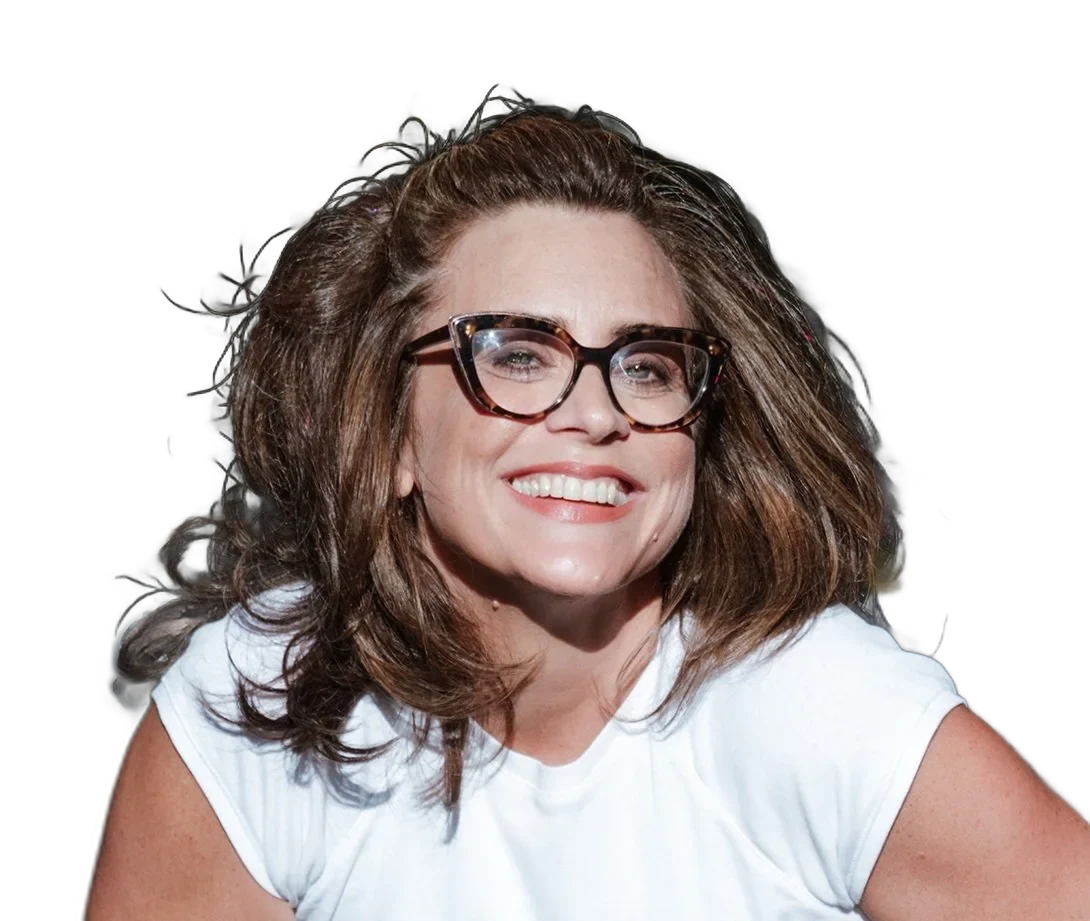
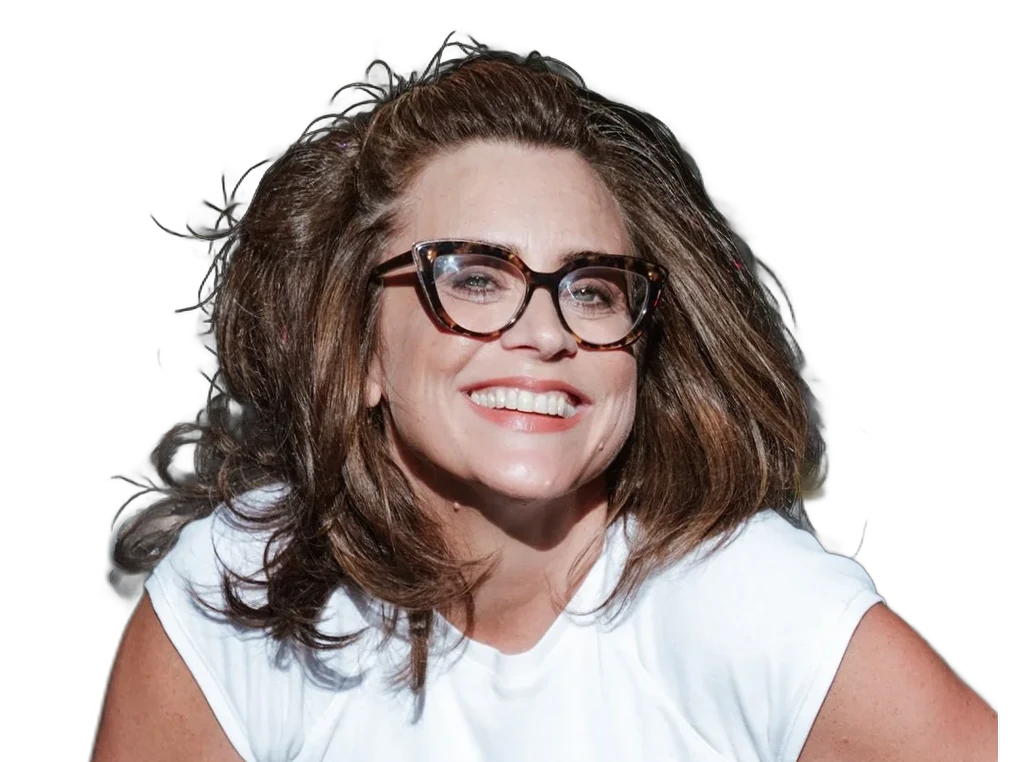
Homepage portrait: the illustration stays at rest and opens up under the pointer to reveal the photo, lined up behind it (no dot print)
Claude-Session: https://claude.ai/code/session_01E1SYBESVZjkS7hAnN2ZAYb

Changed region(s): [[0.0625, 0.0302, 1.0, 1.0], [0.4688, 0.9659, 0.5, 1.0], [0.6562, 0.8753, 0.6875, 0.9055]]

diff --git a/theme/halftone-reveal.js b/theme/halftone-reveal.js
@@ -1,6 +1,6 @@
 /* HalftoneReveal (React Bits), ported to plain JavaScript.
-   Homepage portrait: the cut-out photo is printed as navy halftone dots on the page colour;
-   wherever the pointer goes, the dots swell into the real photo. Used on every element with class "halftone-reveal" and a data-src. */
+   Homepage portrait: the illustration shows at rest; wherever the pointer goes, it opens up
+   (with a halftone-dot edge) to reveal the photo lined up behind it. Used on every element with class "halftone-reveal" and a data-src. */
 (function () {
   if (!window.WebGL2RenderingContext) return;
 const VERTEX = `#version 300 es
@@ -40,6 +40,7 @@ void main() {
 
 const VIEW = `#version 300 es
 precision highp float;
+uniform sampler2D uArt;
 uniform sampler2D uImage;
 uniform sampler2D uMask;
 uniform vec2 uResolution;
@@ -280,9 +281,11 @@ void main() {
   float w = max(fwidth(d), 0.0001) * 0.75;
   float k = smoothstep(r + w, r - w, d) * clamp(r / (w * 2.0), 0.0, 1.0);
   vec4 sharp = photo(p, 0.0, 0.0);
-  // the paper is left see-through (the page shows through): only the ink and the photo are drawn
-  float inkCover = clamp(length(print - uPaper) / max(length(uInk - uPaper), 0.001), 0.0, 1.0);
-  vec4 printed = vec4(print - (1.0 - inkCover) * uPaper, inkCover);
+  // at rest: the illustration (drawn as on the page: its white paper takes on the page colour); the photo shows through the reveal
+  vec2 artUv = (p - uFrame.xy) / uFrame.zw;
+  vec2 onArt = step(0.0, artUv) * step(artUv, vec2(1.0));
+  vec4 art = texture(uArt, clamp(artUv, 0.0, 1.0)) * (onArt.x * onArt.y);
+  vec4 printed = vec4(art.rgb * uPaper * art.a, art.a);
   vec4 real = vec4(sharp.rgb * sharp.a, sharp.a);
   outColor = mix(printed, real, k);
 }`;
@@ -390,7 +393,7 @@ const measureEdge = (context, image) => {
       reverse: false,
       wander: false,
       clickBurst: true,
-      intro: true
+      intro: false
     };
     const canvas = container.querySelector("canvas");
     const gl = canvas?.getContext('webgl2', {
@@ -418,6 +421,7 @@ const measureEdge = (context, image) => {
       'uFade'
     ]);
     const viewUniforms = locate(gl, viewProgram, [
+      'uArt',
       'uImage',
       'uMask',
       'uResolution',
@@ -613,6 +617,9 @@ const measureEdge = (context, image) => {
       gl.uniform1f(viewUniforms.uKey, state.key);
       gl.uniform1f(viewUniforms.uReverse, s.reverse ? 1 : 0);
       gl.uniform1f(viewUniforms.uIntro, 1 - (1 - intro) * (1 - intro));
+      gl.activeTexture(gl.TEXTURE2);
+      gl.bindTexture(gl.TEXTURE_2D, artTexture);
+      gl.uniform1i(viewUniforms.uArt, 2);
       gl.uniform4fv(viewUniforms.uBursts, burstData);
       gl.uniform1f(viewUniforms.uBurstWidth, Math.max(60, s.revealRadius * 0.9));
       gl.bindVertexArray(vao);
@@ -681,12 +688,34 @@ const measureEdge = (context, image) => {
       if (!raf && alive && visible && !document.hidden) raf = requestAnimationFrame(frame);
     };
 
+    // the illustration shown at rest; it is the same size as the photo, which is lined up with it
+    const artTexture = gl.createTexture();
+    gl.bindTexture(gl.TEXTURE_2D, artTexture);
+    gl.texImage2D(gl.TEXTURE_2D, 0, gl.RGBA, 1, 1, 0, gl.RGBA, gl.UNSIGNED_BYTE, new Uint8Array(4));
+    let artReady = false, photoReady = false;
+    const ready = () => { if (artReady && photoReady) { container.classList.add("ht-on"); wake(); } };
+    const art = new Image();
+    art.decoding = "async";
+    art.onload = () => {
+      if (!alive) return;
+      gl.bindTexture(gl.TEXTURE_2D, artTexture);
+      gl.pixelStorei(gl.UNPACK_PREMULTIPLY_ALPHA_WEBGL, false);
+      gl.texImage2D(gl.TEXTURE_2D, 0, gl.RGBA, gl.RGBA, gl.UNSIGNED_BYTE, art);
+      gl.generateMipmap(gl.TEXTURE_2D);
+      gl.texParameteri(gl.TEXTURE_2D, gl.TEXTURE_MIN_FILTER, gl.LINEAR_MIPMAP_LINEAR);
+      gl.texParameteri(gl.TEXTURE_2D, gl.TEXTURE_MAG_FILTER, gl.LINEAR);
+      gl.texParameteri(gl.TEXTURE_2D, gl.TEXTURE_WRAP_S, gl.CLAMP_TO_EDGE);
+      gl.texParameteri(gl.TEXTURE_2D, gl.TEXTURE_WRAP_T, gl.CLAMP_TO_EDGE);
+      artReady = true;
+      ready();
+    };
+    art.src = container.dataset.art;
+
     const image = new Image();
     image.crossOrigin = 'anonymous';
     image.decoding = 'async';
     image.onload = () => {
       if (!alive) return;
-      container.classList.add("ht-on");
       gl.bindTexture(gl.TEXTURE_2D, imageTexture);
       gl.pixelStorei(gl.UNPACK_PREMULTIPLY_ALPHA_WEBGL, false);
       gl.texImage2D(gl.TEXTURE_2D, 0, gl.RGBA, gl.RGBA, gl.UNSIGNED_BYTE, image);
@@ -704,7 +733,8 @@ const measureEdge = (context, image) => {
       }
       state.image = image;
       state.introStart = performance.now();
-      wake();
+      photoReady = true;
+      ready();
     };
     image.src = container.dataset.src;
 

diff --git a/theme/style.css b/theme/style.css
@@ -113,13 +113,13 @@ a:hover { color: var(--accent); text-decoration-color: currentColor; }
 .portrait { display: block; width: 320px; max-width: 100%; height: auto;
   mix-blend-mode: multiply; /* the illustration's white paper blends into the page color */ }
 
-/* halftone portrait (theme/halftone-reveal.js): 20% bigger than the illustration (384px instead of 320px), shaped like the photo */
-.portrait.halftone-reveal { position: relative; width: min(384px, calc(100vw - 64px)); max-width: none; aspect-ratio: 1090 / 921; height: auto; overflow: hidden; mix-blend-mode: normal; }
+/* portrait with photo reveal (theme/halftone-reveal.js): 20% bigger than before (384px instead of 320px) */
+.portrait.halftone-reveal { position: relative; width: min(384px, calc(100vw - 64px)); max-width: none; aspect-ratio: 1024 / 762; height: auto; overflow: hidden; mix-blend-mode: normal; }
 .halftone-reveal-canvas { position: absolute; inset: 0; display: block; width: 100%; height: 100%; opacity: 0; transition: opacity .3s; }
-.halftone-fallback { position: absolute; inset: 0; width: 100%; height: 100%; object-fit: contain; }
+.halftone-fallback { position: absolute; inset: 0; width: 100%; height: 100%; object-fit: contain; mix-blend-mode: multiply; }
 .halftone-reveal.ht-on .halftone-reveal-canvas { opacity: 1; }
 .halftone-reveal.ht-on .halftone-fallback { visibility: hidden; }
-@media (min-width: 521px) and (hover: hover) { .has-photo .bubble { left: 343px; top: 104px; } }
+@media (min-width: 521px) and (hover: hover) { .has-photo .bubble { left: 343px; top: 91px; } }
 
 /* ---------- greeting on portrait hover ----------
    Text beside the illustration, level with the face. It fades and scales in on hover. */

diff --git a/build.js b/build.js
@@ -429,12 +429,12 @@ function yearSpan(list) {
    any other image type falls back to a normal <img>. */
 function portraitMarkup() {
   const alt = escapeHtml(SITE.portrait_alt || SITE.name);
-  // With a photo set (Pages CMS: "Portrait photo"), the photo is printed as halftone dots that swell into the real photo
-  // under the pointer (theme/halftone-reveal.js). The plain cut-out photo shows if the browser can't run the effect.
+  // With a photo set (Pages CMS: "Portrait photo"), the illustration opens up under the pointer to reveal the photo
+  // lined up behind it (theme/halftone-reveal.js). The plain illustration shows if the browser can't run the effect.
   if (SITE.portrait_photo && !EDIT) {
     const photo = imageUrl(SITE.portrait_photo);
     const photoAlt = escapeHtml(SITE.portrait_photo_alt || SITE.portrait_alt || SITE.name);
-    return `<div class="portrait halftone-reveal" data-src="${photo}" role="img" aria-label="${photoAlt}"><img class="halftone-fallback" src="${photo}" alt=""><canvas class="halftone-reveal-canvas" aria-hidden="true"></canvas></div>`;
+    return `<div class="portrait halftone-reveal" data-src="${photo}" data-art="${imageUrl(SITE.portrait)}" role="img" aria-label="${alt}"><img class="halftone-fallback" src="${imageUrl(SITE.portrait)}" alt=""><canvas class="halftone-reveal-canvas" aria-hidden="true"></canvas></div>`;
   }
   const file = path.join(CONTENT, String(SITE.portrait || "").replace(/^\//, ""));
   if (EDIT) {
